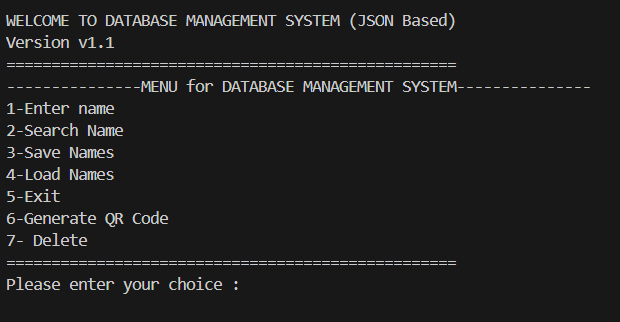
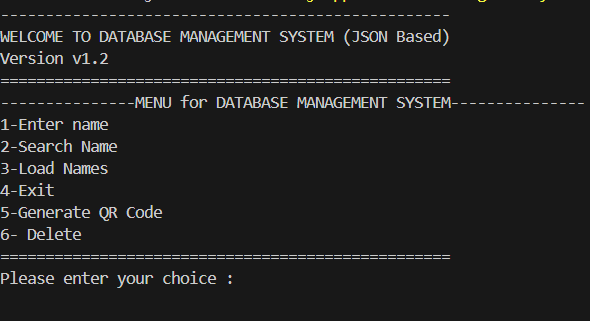
Release v1.2: Added UI processing effects and introduced username database

Changed region(s): [[0.0, 0.0312, 0.9458, 0.3427], [0.0, 0.3115, 0.7627, 0.9034]]

diff --git a/main.py b/main.py
@@ -3,8 +3,31 @@ import sys
 import qrcode
 import time
 import datetime
-import os
 import uuid
+import os
+def time_save():
+        time=datetime.datetime.now().isoformat(timespec="seconds")
+        iso_time=str(time.replace("T","/"))
+        return iso_time
+def generate_id():
+        id=uuid.uuid4().hex[:10]
+        id_1=str(id)
+        return id_1
+def clear_proc():
+    print("Initialising File Deletion", end='',flush=True)
+    for i in range(3):
+        time.sleep(0.5)
+        print(".",end='',flush=True)
+def process_data():
+    print("Initialising Data Loading",end=' ',flush=True)
+    for i in range (3):
+        time.sleep(0.3)
+        print(".",end=" ",flush=True)
+def process_menu():
+    print("Loading",end='.',flush=True)
+    for i in range(3):
+        time.sleep(0.5)
+    print(".",end=" \n", flush=True)
 class RecordManager():
     def __init__(self): 
         self.records={}
@@ -16,41 +39,42 @@ class RecordManager():
     def show_intro(self):
         print("-"*50)
         print("WELCOME TO DATABASE MANAGEMENT SYSTEM (JSON Based)")
-        print("Version v1.1")
+        print("Version v1.2")
         print("="*50)
     def name_enter(self):
-        name=input("Please enter your name :")
-        if not name.replace(".","").replace(" ","").isalpha(): #this is added to to allow spaces and dots in names to reduce the invalid name entries and make it more user friendly
-            print("Invalid name, Please try again")
+        username=input("Please enter a username :").strip()
+        if not username or username.startswith('!_-@#$%^&*()+=[]{}|;:",.<>?/`~'):
+            print("Invalid input, Username cannot be empty or start with special characters. Please try again.")
+        if not username.islower(): 
+            print("Invalid input, Username cannot contain uppercase letters. Please try again.")
             return
-        if name not in self.records:
-            self.records[name]={"ID" : self.id_save(), "Last saved" : self.time_save()}
+        name=input("Please enter your name :").strip()
+        if not name:
+            print("Invalid input, Name cannot be empty. Please try again.")
+            return
+        if name.isdigit() or not name.isalpha() or " " in name or not name.isascii() or any(char in '!_-@#$%^&*()+=[]{}|;:",.<>?/`~' for char in name):
+            print("Invalid input, Name cannot contain numbers or special characters. Please try again.")
+            return
+        if username not in self.records:
+            self.records[username]={"Name": name, "ID" : generate_id(), "Last saved" :time_save()}
             self.save_names()
-            print("Name and Unique ID added successfully")
+            print("Username, name and Unique ID added successfully")
+            print(f'Your Unique ID : {self.records[username]["ID"]}')
         else:
-            print("Name already exists, Please try again")
-        return self.records
-    def time_save(self):
-        time=datetime.datetime.now().isoformat(timespec="seconds")
-        iso_time=str(time.replace("T","/"))
-        return iso_time
-    def generate_id(self):
-        id=uuid.uuid4().hex[:10]
-        id_1=str(id)
-        return id_1
-    def clear_proc(self):
-        print("Initialising File Deletion", end='',flush=True)
-        for i in range(3):
-            time.sleep(0.5)
-            print(".",end='',flush=True)
+            print("Username already exists, Please try again")
+            return
+        self.save_names()
     def delete_data(self):
         user_folder=self.records
-        delete=input("Do you want to delete the entire data(enter 'entire data' or '0') or just a particular person's data (enter 'person' or '1') (Note: It is a permanent deletion, no way to recover the deleted data) :").lower()
+        if not user_folder:
+            print("Error: File is empty")
+            return
+        delete=input("Do you want to delete the entire data(enter 'entire data') or just a particular person's data (enter 'person') (Note: It is a permanent deletion, no way to recover the deleted data) :").lower()
         if delete=="entire data":
             print(f"Found Data :{user_folder}")
             input_y=input("Is this the data you want to delete (Yes/No) :").lower()
             if input_y=="yes":
-                self.clear_proc()
+                clear_proc()
                 try:
                     self.records.clear()
                     self.save_names()
@@ -66,14 +90,14 @@ class RecordManager():
                 print("Data not found, Please Try Again")
         elif delete=="person":
             try:
-                name=input("Please enter the name of whose data you want to remove :")
+                name=input("Please enter the username of whose data you want to remove :")
                 if name in user_folder:
                     print(f"Found Data :{user_folder[name]}")
                     input_x=input("Is this the data you want to delete (Yes/No) :").lower()
                     if input_x=="yes":
-                        self.clear_proc()
+                        clear_proc()
                         try:
-                            self.records[name].clear()
+                            del self.records[name]
                             self.save_names()
                             print(f"The data of the {name} has been deleted successfully")
                             print("Returning to main menu")
@@ -89,46 +113,51 @@ class RecordManager():
                         return
                 elif name not in user_folder:
                     print("Name not found, Try Again")
-                else:
-                    print("Invalid Input, Try Again")
             except FileNotFoundError as e:
                 print(f"Name not found, {e}")
+        else:
+            print("Invalid Input, Try Again")
     def search_name(self): # This function is used to search for a name and know whether it exists or not
-        input_1=input("Do you want to search using ID or Name :").lower()
+        input_1=input("Do you want to search using ID, Username or Name :").lower()
+        found=False
         if input_1=="name":
-            found=False
             name=input("Please enter your name to search :")
-            if name in self.records:
-                user_input=self.records[name]
-                print(f"Name :", name)
-                print("Unique ID found :",user_input.get("ID"))
-                print(f"Last saved time :{user_input.get('Last saved')}")
-                found=True
-            else:
-                print("Name not found, Try Again")
+            for user,data in self.records.items():
+                    data=self.records[user]
+                    if data["Name"].lower()==name.lower():
+                        print(f"Username :{user}")
+                        print(f"Name : {name}")
+                        print("Unique ID found :",data.get("ID"))
+                        print(f"Last saved time :{data.get('Last saved')}")
+                        found=True
+                    else:
+                        print("Name not found, Try Again")
         elif input_1=="id":
             id=input("Please enter your ID to search :")
-            found=False
-            for name,data in self.records.items():
+            for username,data in self.records.items():
+                data=self.records[username]
                 if data["ID"] == id:
-                    print(f"Name :", name)
+                    print(f"Username :{username}")
+                    print(f"Name :", data.get("Name"))
                     print("Unique ID found :",data.get("ID"))
                     print(f"Last saved time :{data.get('Last saved')}")
                     found=True
-            if not found:
-                print("ID not found, Try Again")
+        if not found:
+            print("ID not found, Try Again")
+        elif input_1=="username":
+            user=input("Please enter your username to search :")
+            if user in self.records:
+                user_data=self.records[user]
+                print(f"Username :", user)
+                print(f"Name :", user_data.get("Name"))
+                print("Unique ID found :",user_data.get("ID"))
+                print(f"Last saved time :{user_data.get('Last saved')}")
+                found=True
+            else:
+                print("Username not found, Try Again")
         else:
             print("Please enter a valid name or entry and try again")
-            self.enter_direct
-    def enter_direct(self):
-        input_1=input("Do you want to open the file now ? (yes/no)").lower()
-        if input_1=="yes":
-                self.file_load()
-        elif input_1=="no":
-            print("Okay, Returning to main menu")
             return
-        else:
-            print("Invalid input, Returning to main menu")
     def save_names(self): # This function is used to save the names to a json file and handle permission errors
         try:
             with open ("lost.json", "w") as f:
@@ -145,13 +174,18 @@ class RecordManager():
                 records_dict=json.load(f)
                 self.records=records_dict
                 if not silent:
-                    print("Loaded Names:")
-                    for name in self.records:
+                    process_data()
+                    print("\nData Loaded")
+                    name=input("Please enter your username to view the details :")
+                    if name in self.records:
                         duplicate=self.records[name]
-                        print("Your name is :",name)
+                        print("Your username is :",name)
+                        print("Your name is :",duplicate["Name"])
                         print("Your unique ID is :",duplicate["ID"])
                         print ("last saved time :",duplicate["Last saved"])
                         print("Your file has been opened successfully")
+                        silent=True
+                        return
         except FileNotFoundError as e:
             if not silent:
                 print(f"Error: File not found, {e}")
@@ -161,14 +195,15 @@ class RecordManager():
                 print(f"Error: failed decoding JSON, {e}")
             return
     def qr_code(self):
-        name=input("Please enter your name to search and provide the details using QR code :")
+        name=input("Please enter your username to search and provide the details using QR code :")
         if name not in self.records:
-            print("Your name is not available in our databases")
+            print("Your username is not available in our databases")
             return
-        details_1=self.records[name]
-        details_2=details_1["ID"]
-        details_3=details_1["Last saved"]
-        main_details=(f"Name : {name}\n ID={details_2}\n Last saved={details_3}")
+        details_0=self.records[name]
+        details_1=details_0["Name"]
+        details_2=details_0["ID"]
+        details_3=details_0["Last saved"]
+        main_details=(f"Username : {name}\n Name : {details_1}\n ID={details_2}\n Last saved={details_3}")
         img=qrcode.make(main_details)
         unique_id=uuid.uuid4().hex
         file=(f"{unique_id}qr.png")
@@ -185,11 +220,10 @@ class RecordManager():
             print("-"*15+"MENU for DATABASE MANAGEMENT SYSTEM"+"-"*15)
             print("1-Enter name")
             print("2-Search Name")
-            print("3-Save Names")
-            print("4-Load Names")
-            print("5-Exit")
-            print("6-Generate QR Code")
-            print("7- Delete")
+            print("3-Load Names")
+            print("4-Exit")
+            print("5-Generate QR Code")
+            print("6- Delete")
             print("="*50)
             try:
                 choice=int(input("Please enter your choice :"))
@@ -197,20 +231,24 @@ class RecordManager():
                print("Invalid input, Please enter a number")
                continue
             if choice==1:
+                process_menu()
                 self.name_enter()
             elif choice==2:
-                 self.search_name()    
+                 process_menu()
+                 self.search_name()  
             elif choice==3:
-                self.save_names()
-            elif choice==4:
+                process_menu()
                 self.file_load()
-            elif choice==5:
+            elif choice==4:
+                process_menu()
                 self.save_names()
                 print("Thank you for using the program, Your Progress has been saved")
                 sys.exit()
-            elif choice==6:
+            elif choice==5:
+                process_menu()
                 self.qr_code()
-            elif choice==7:
+            elif choice==6:
+                process_menu()
                 self.delete_data()
             else:
                 print("Invalid choice, Please try again")
